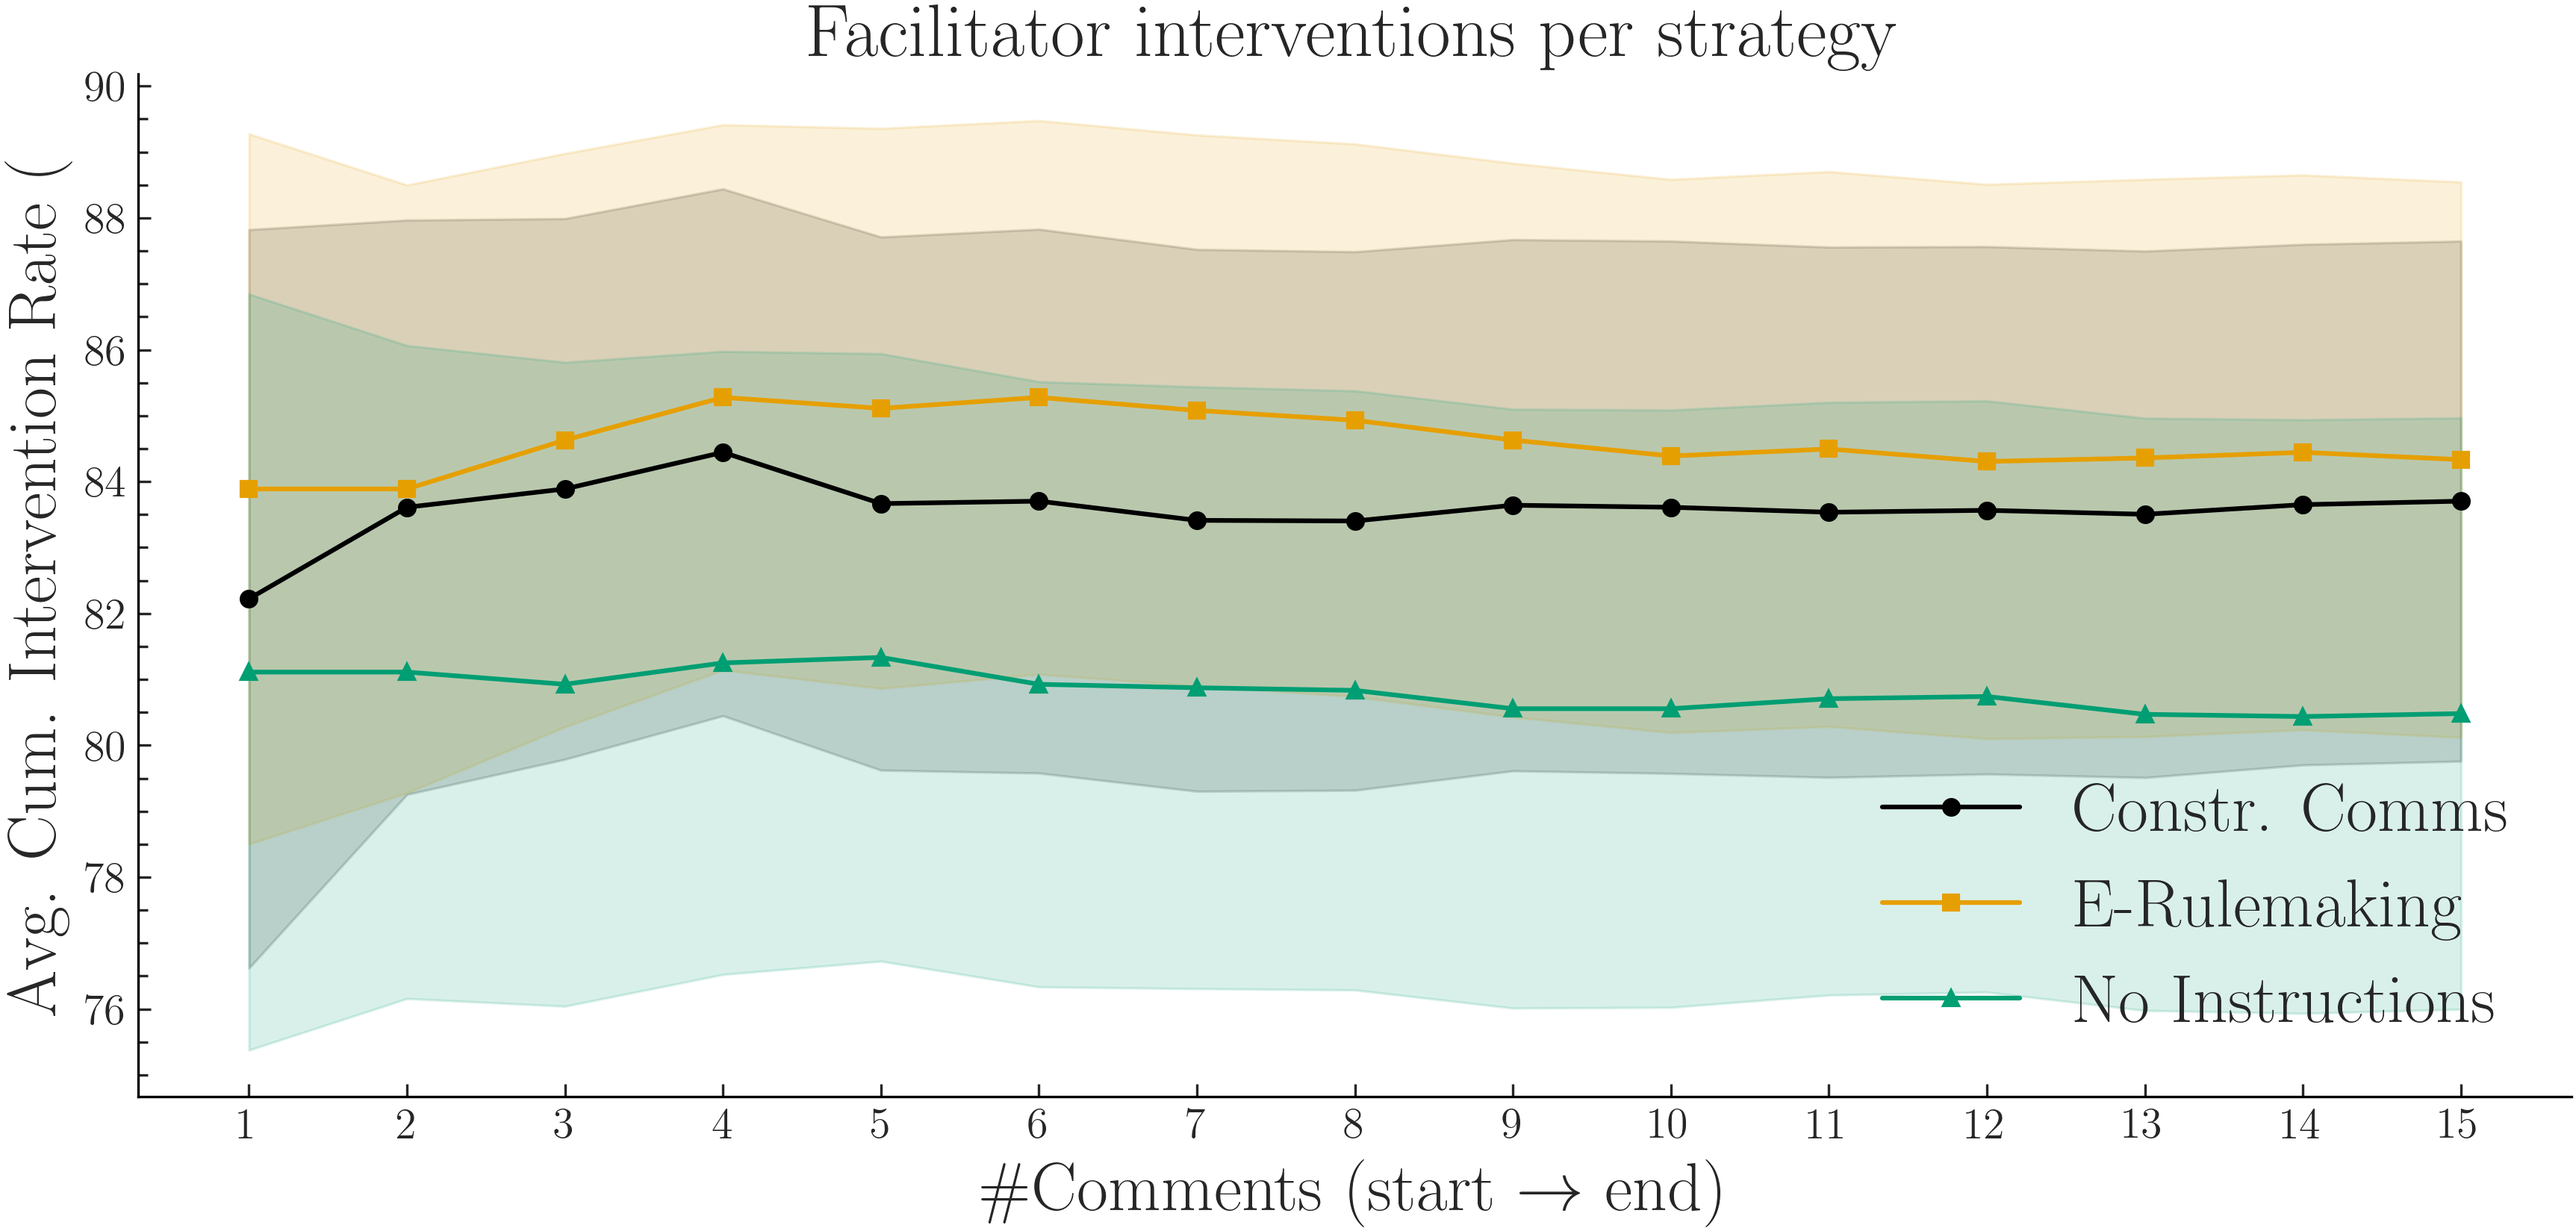
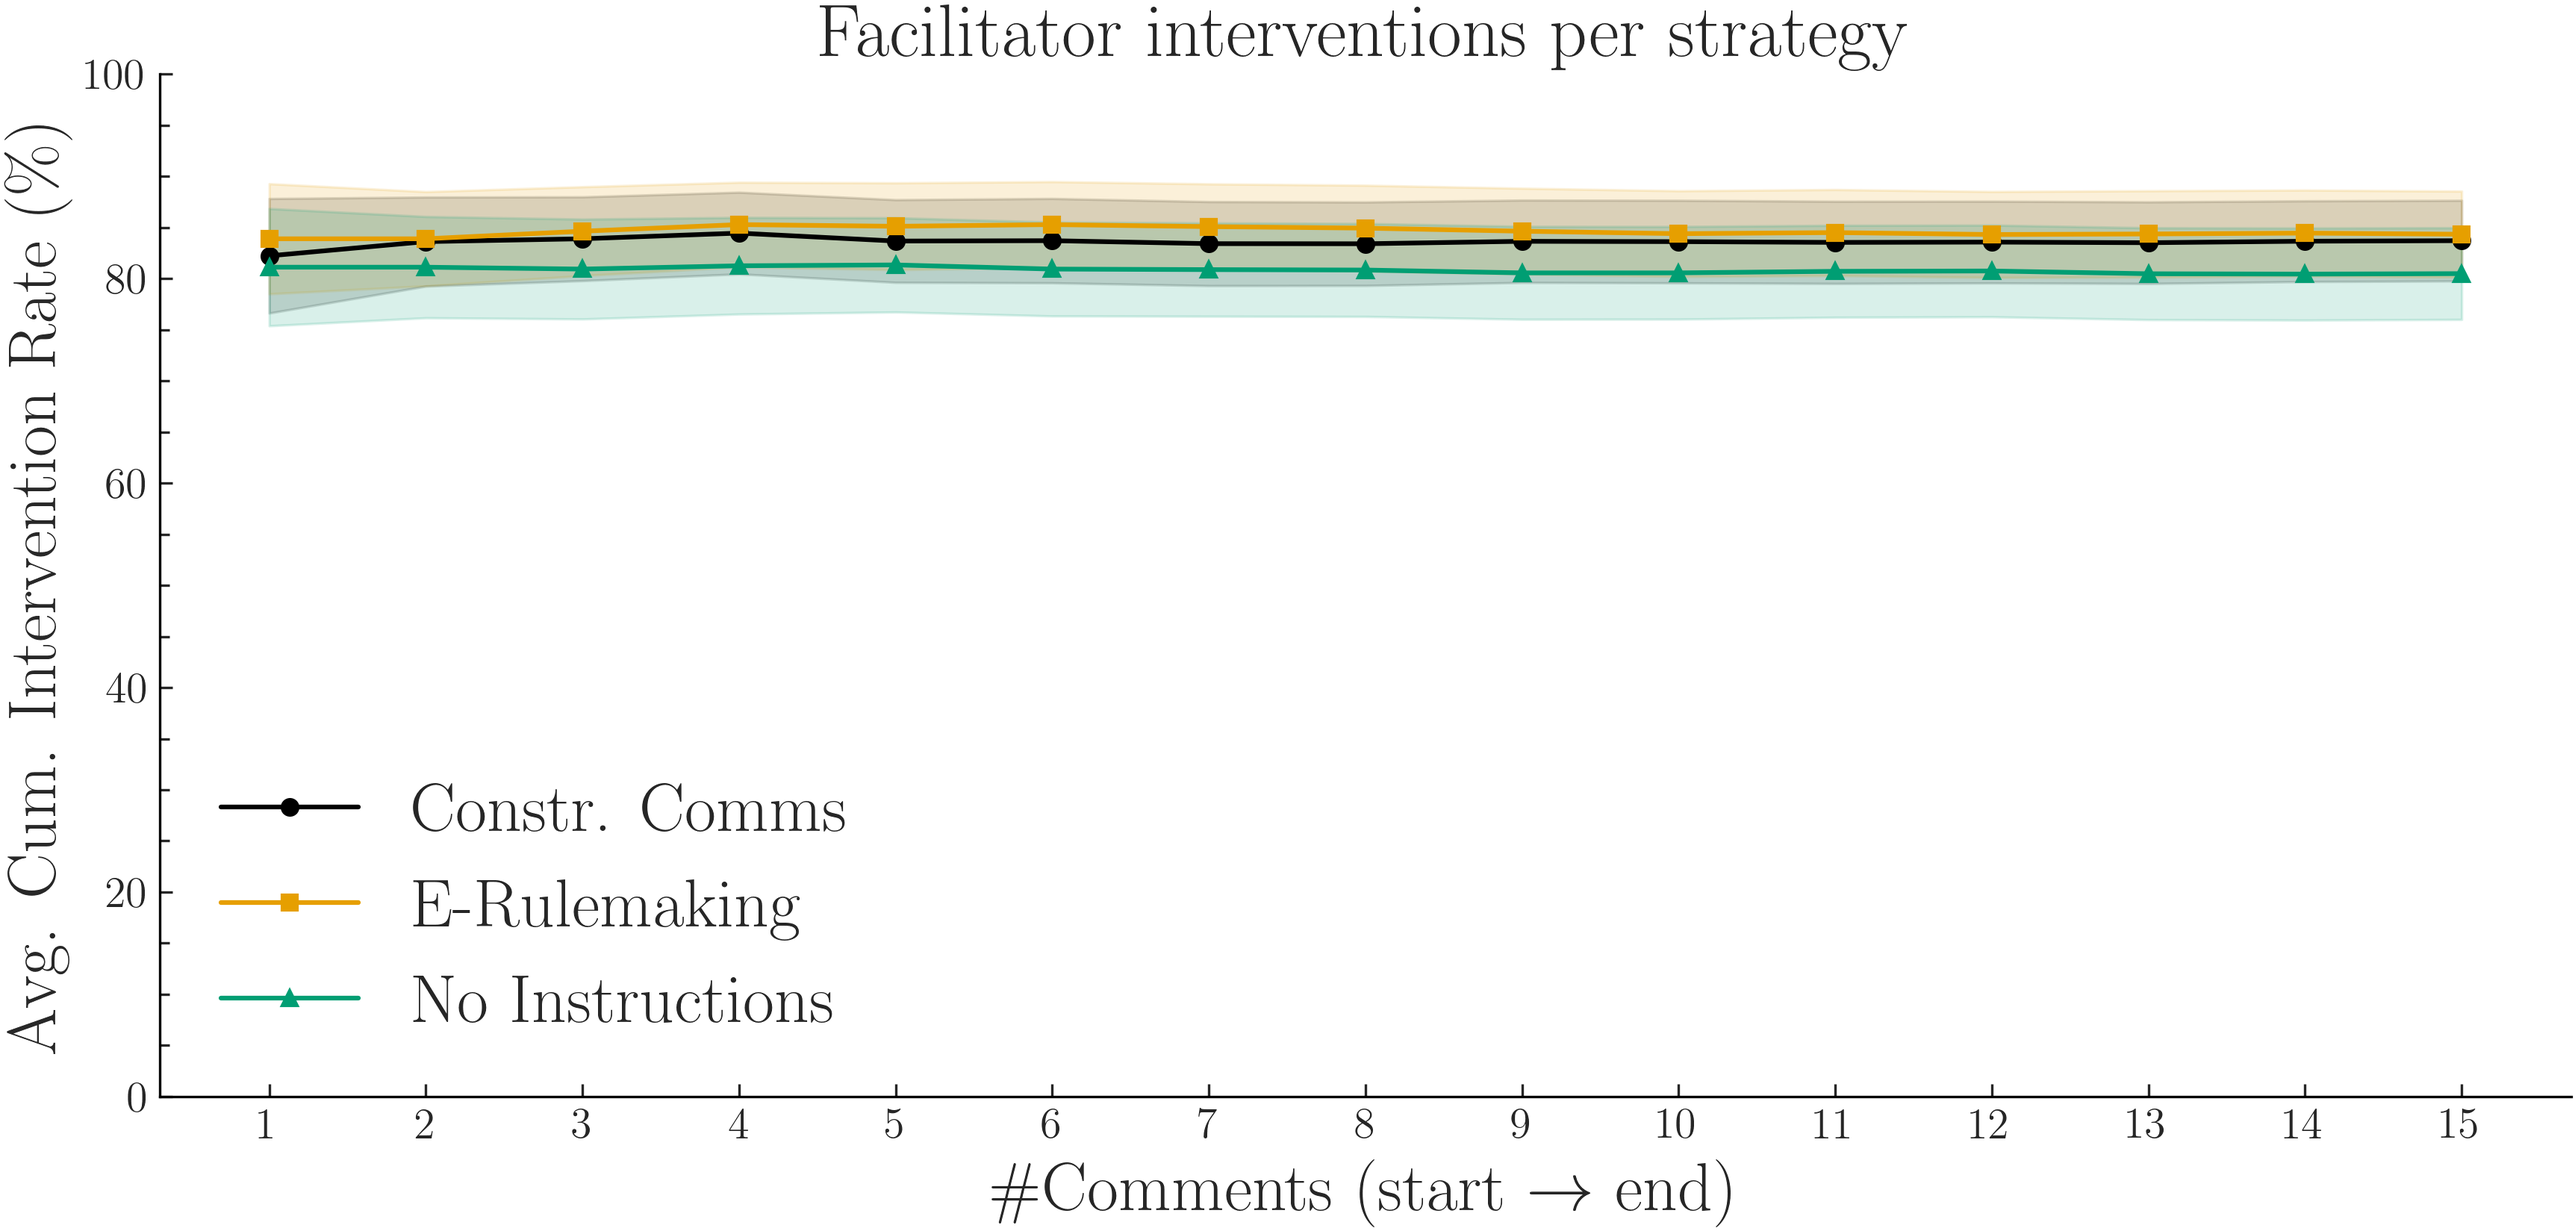
normalize intervention scales

diff --git a/src/eval_moderation.py b/src/eval_moderation.py
@@ -197,11 +197,12 @@ def intervention_through_time_plot(
             marker=tasks.graphs.MARKERS[i % len(tasks.graphs.MARKERS)],
         )
         ax.fill_between(x, y - ci, y + ci, color=color, alpha=0.15)
+        ax.set_ylim(0, 100)
 
     ax.set_xticks(sorted(summary["turn_index"].unique()))
     ax.xaxis.set_minor_locator(plt.NullLocator())
     ax.set_xlabel(r"\#Comments (start $\rightarrow$ end)")
-    ax.set_ylabel("Avg. Cum. Intervention Rate (%)")
+    ax.set_ylabel(r"Avg. Cum. Intervention Rate (\%)")
     ax.set_title(f"Facilitator interventions per {groupby_col}")
 
     # legend already sorted because plotting order is sorted
